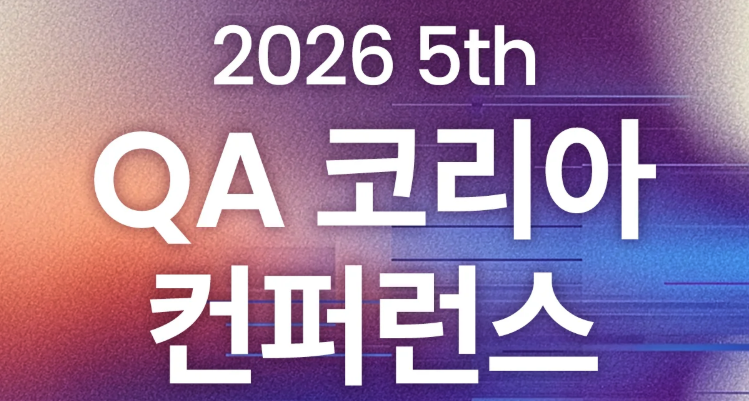
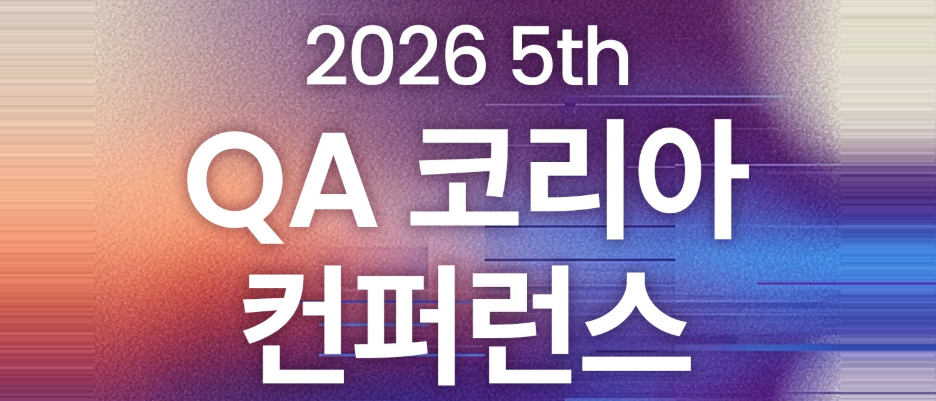
QA 코리아 컨퍼런스 발표를 완료 상태로 반영하고 청중 후기를 추가한다.
홈 지식 전수 영역을 카드형 2열로 구분해 멘토링·발표를 한눈에 보이게 한다.

diff --git a/site/src/data/sharing.ts b/site/src/data/sharing.ts
@@ -16,6 +16,8 @@ export const sharing = {
       slug: 'mentoring',
       title: '대학생 QA 엔지니어 멘토링',
       status: '진행',
+      thumbnail: '/sharing/mentoring-thumb.jpg',
+      image: '/sharing/mentoring.png',
       summary:
         'QA 직무를 준비하는 대학생 2명을 대상으로, 이력서 첨삭이 아닌 실무 사고·흐름을 익히는 장기 멘토링을 진행했다.',
       points: [
@@ -36,28 +38,59 @@ export const sharing = {
     {
       slug: 'conference',
       title: 'QA 코리아 컨퍼런스 발표',
-      status: '예정 · 2026.09.05',
+      status: '완료 · 2026.09.05',
+      thumbnail: '/sharing/conference-thumb.jpg',
+      image: '/sharing/conference.png',
       href: 'https://ticketa.co/event/26hfzu4p',
       hrefLabel: '행사 페이지',
+      talkTitle: 'AI를 활용해 QA가 더 잘할 수 있는 것에 집중하기',
       summary:
-        '개인 멘토링 다음 단계로, 실무 문제 해결 과정을 더 많은 QA가 이해하고 적용할 수 있는 형태로 재구성해 발표한다.',
+        '제5회 QA 코리아 컨퍼런스(온라인)에서 AI와 QA의 역할을 분리해 협업하는 실무 과정을 발표했다. 자동화로 줄어든 시간이 문서·계획·리포트로 다시 흡수되는 문제를 출발점으로, 직접 구축한 TMS와 AI 기반 TC 초안 검증 흐름을 공유했다.',
       points: [
-        '배경 → 기존 한계 → 가설 → 검증·개선 → 실패·수정 → 성과 → 재사용 가능한 기준',
-        '성공만 포장하지 않고, 유효했던 판단과 부족했던 지점을 함께 정리',
-        '사내 맥락 없이도 이해되도록 설명 수준·일반화·적용 기준을 설계',
+        '“제품을 충분히 보고 있는가”라는 질문에서 출발해, 반복 테스트 절감이 문서 공수로 되돌아오는 구조를 정리',
+        'QA 판정·수행 시간 데이터를 쌓는 TMS를 직접 만들고, 잔여 일정·통과율·개선 근거로 활용',
+        'AI는 TC 초안 생성, QA는 검토·판단으로 역할을 나누고, 누락은 프롬프트·라이프사이클 매트릭스로 개선',
+        '실패 코드와 개선 코드를 나란히 보여 주며, 적용 가능한 판단 기준까지 전달',
       ],
       method:
-        '프로젝트 자료와 테스트 산출물을 다시 검토하며, 당시 당연했던 결정에도 근거를 붙이고 경험을 재사용 가능한 지식으로 변환하는 중이다.',
+        '성공 사례만 포장하지 않고, AI 산출물을 맹신하지 않는 검증 방식과 시스템 운영에서 새로 생긴 과제(검토 효율, 데이터 신뢰, 유지 비용)까지 함께 설명했다.',
       outcomes: [
-        '복잡한 QA 경험을 핵심 메시지 중심으로 구조화',
-        '배경이 다른 청중에게 이해 가능한 언어로 설명',
-        '사례를 일반 방법론으로 정리하고, 질문·피드백으로 관점을 점검',
+        '근거 기반 TMS로 일정 예측·관리 관점을 청중에게 전달했다는 후기',
+        '실패·개선을 나란히 보여 준 구성이 따라가기 쉽다는 평가',
+        'AI가 실행을 맡더라도, 아직 검증되지 않은 것을 말할 수 있는 사람의 역할이 필요하다는 메시지에 공감',
+        '참석자가 본인 TMS/테스트케이스 관리 도구 고민과 연결해 이해했다는 반응',
       ],
+      feedback: {
+        heading: '청중 반응',
+        intro:
+          '발표 이후 SNS·블로그 후기에서, 실무 적용 가능성과 AI·QA 역할 구분에 대한 반응이 이어졌다. 개인 식별 정보는 가리고 핵심 평가만 남겼다.',
+        image: {
+          src: '/sharing/conference-feedback.jpg',
+          alt: '컨퍼런스 후기 캡처 (작성자 얼굴·이름 블러 처리)',
+          width: 471,
+          height: 1024,
+        },
+        quotes: [
+          {
+            text: '실패했던 코드와 개선한 코드를 나란히 보여 줘서 따라가기 쉬웠고, TMS를 직접 만들며 겪은 “무엇을 넣고 뺄지” 고민이 같은 도구를 만드는 입장에서 와닿았다.',
+            source: '참석자 SNS 후기',
+          },
+          {
+            text: '실행은 AI로 넘어가도, 아직 검증되지 않은 것을 말할 수 있는 사람은 필요하다는 말에 공감했다. 다음엔 듣는 사람이 아니라 연사로 서고 싶다는 반응도 있었다.',
+            source: '참석자 SNS 후기',
+          },
+          {
+            text: 'AI 산출물을 맹신하지 않고 검증하는 큰 틀 안에서, 테스트 수행 데이터를 관리·일정 예측으로 연결한 지점이 인상적이라는 정리 후기가 올라왔다.',
+            source: '컨퍼런스 세션 후기 블로그',
+            href: 'https://qa-subi.tistory.com/71',
+          },
+        ],
+      },
     },
   ],
   insight: [
     '좋은 설명은 많은 내용을 전달하는 일이 아니라, 상대가 스스로 판단할 수 있는 기준을 만들어 주는 일이다.',
     '좋은 QA는 혼자 많은 결함을 찾는 데 그치지 않고, 기준과 경험을 나눠 팀·조직의 품질 역량을 높일 수 있어야 한다.',
-    'OJT 한 번의 평가로 부족한 역량을 정의했고, 멘토링과 발표라는 실전으로 개선을 이어가고 있다.',
+    'OJT 한 번의 평가로 부족한 역량을 정의했고, 멘토링과 컨퍼런스 발표라는 실전으로 개선을 이어가고 있다.',
   ],
 } as const;

diff --git a/site/src/styles/case.css b/site/src/styles/case.css
@@ -173,6 +173,65 @@
   color: var(--teal);
 }
 
+.case .block__talk {
+  margin: -0.25rem 0 0.85rem;
+  font-size: 0.98rem;
+  font-weight: 650;
+  letter-spacing: -0.02em;
+  line-height: 1.45;
+  color: var(--ink);
+}
+
+.case .feedback {
+  margin-top: 1.5rem;
+  padding-top: 0.25rem;
+}
+
+.case .feedback__figure {
+  margin: 0 0 1.15rem;
+  max-width: 22rem;
+}
+
+.case .feedback__figure img {
+  display: block;
+  width: 100%;
+  height: auto;
+  border-radius: var(--radius-media, 0.35rem);
+  border: 1px solid var(--line);
+}
+
+.case .feedback__cap {
+  margin: 0.45rem 0 0;
+  font-size: 0.78rem;
+  color: var(--mute);
+}
+
+.case .feedback__quotes {
+  list-style: none;
+  margin: 0;
+  padding: 0;
+  display: grid;
+  gap: 0.85rem;
+}
+
+.case .feedback__quote {
+  margin: 0;
+  padding: 0.95rem 0 0.95rem 1rem;
+  border-left: 2px solid var(--teal);
+}
+
+.case .feedback__quote p {
+  margin: 0 0 0.45rem;
+  font-size: 0.95rem;
+  line-height: 1.65;
+  color: var(--ink);
+}
+
+.case .feedback__quote footer {
+  font-size: 0.8rem;
+  color: var(--mute);
+}
+
 .case .block__p {
   margin: 0 0 0.9rem;
   font-size: 0.98rem;
@@ -241,6 +300,7 @@
   margin: 1.5rem calc(-1 * var(--rail)) 0;
   overflow: hidden;
   aspect-ratio: 21 / 9;
+  background: var(--shift, #ebecef);
 }
 
 .case .break img {
@@ -248,6 +308,14 @@
   height: 100%;
   object-fit: cover;
   object-position: center;
+}
+
+.case .break--banner {
+  background: #1a1030;
+}
+
+.case .break--banner img {
+  object-fit: contain;
 }
 
 .case .work + .work {
